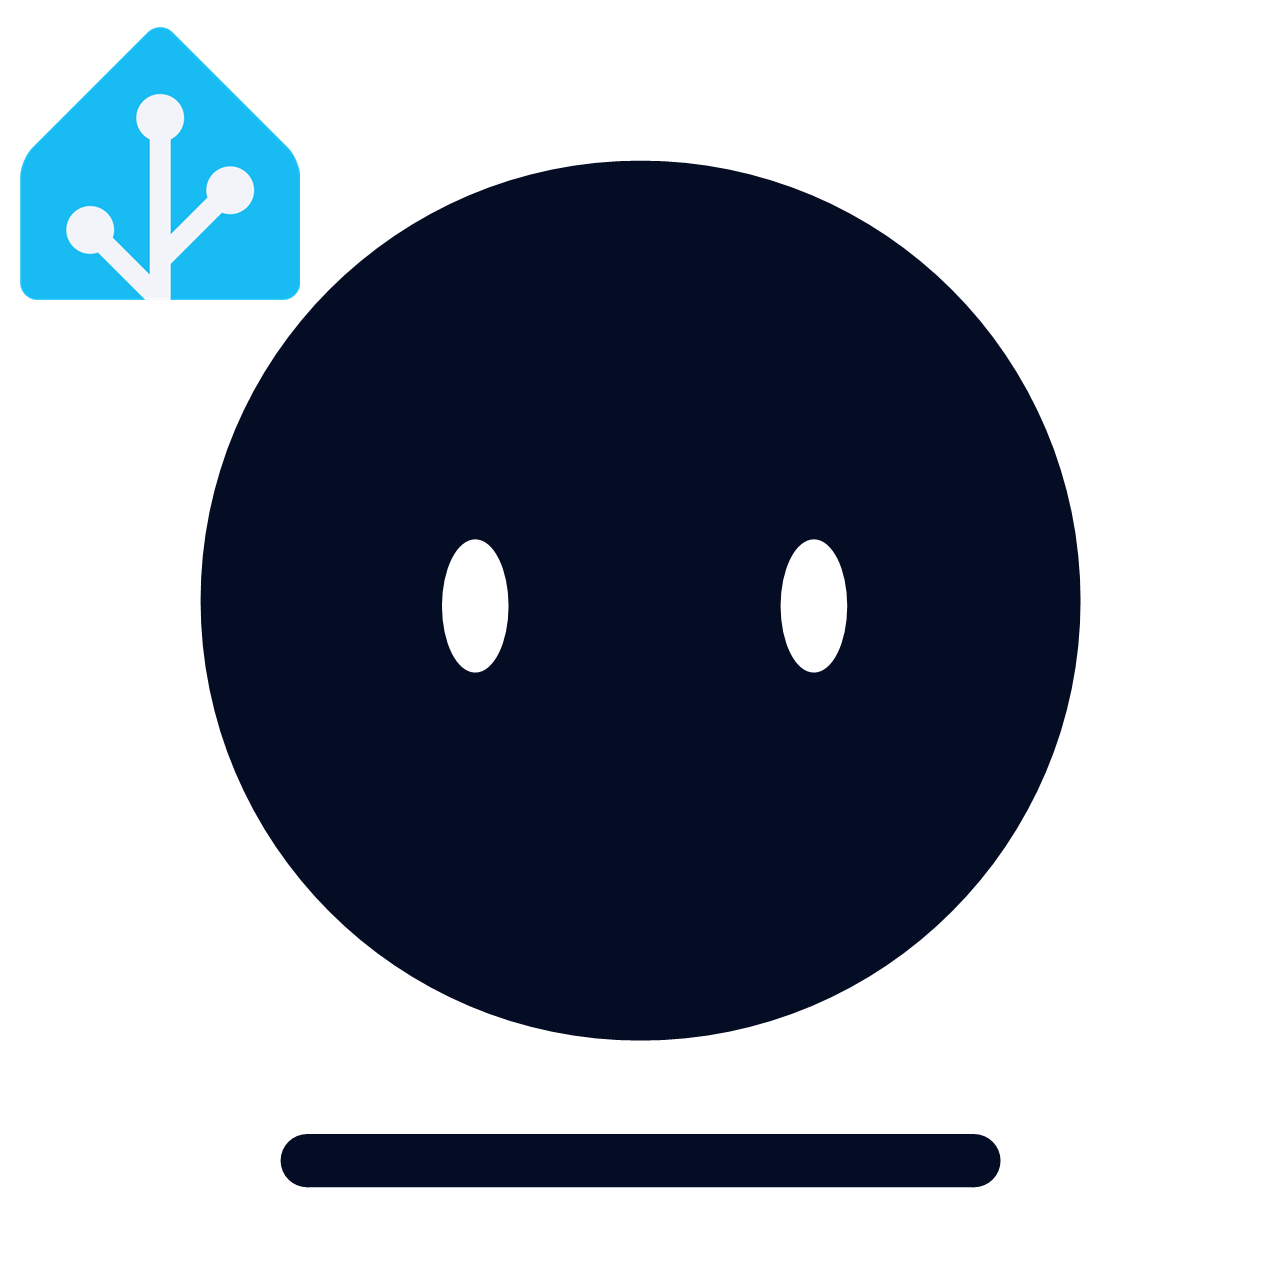
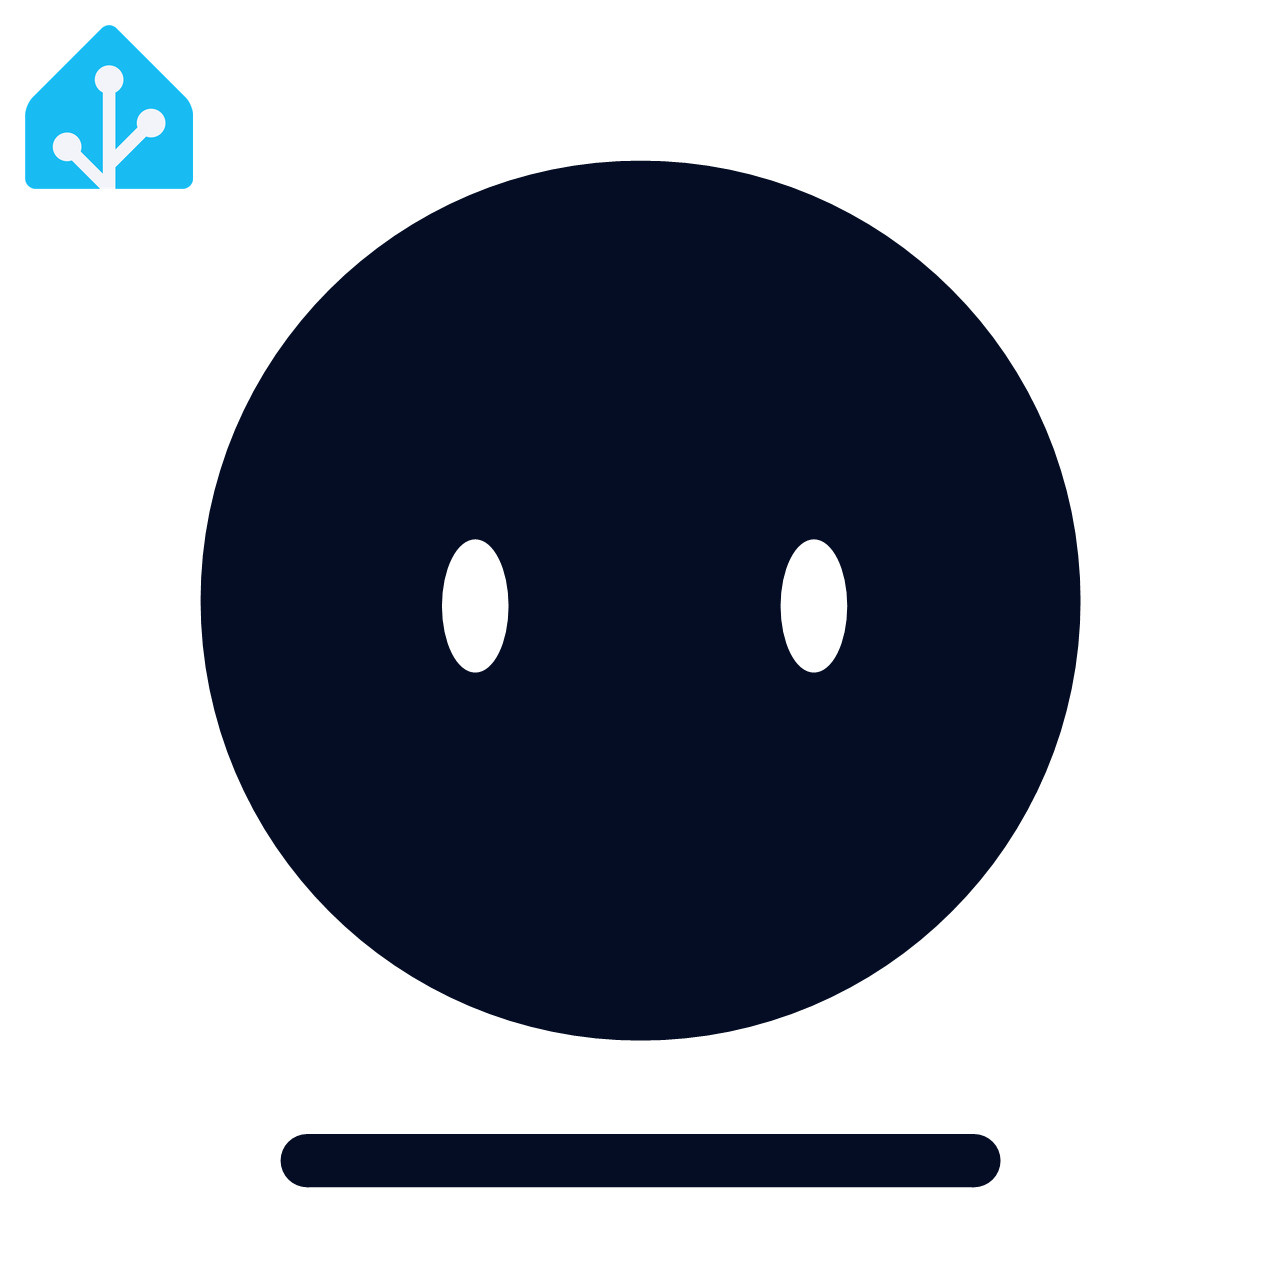
Name NIO OAuth credentials and refine badge (0.4.0-dev.2)

Changed region(s): [[0.0, 0.0, 0.25, 0.25]]

diff --git a/tests/test_application_credentials.py b/tests/test_application_credentials.py
@@ -5,6 +5,7 @@ from unittest.mock import AsyncMock, MagicMock, patch
 
 import pytest
 from aiohttp import BasicAuth
+from homeassistant.components.application_credentials import ClientCredential
 from homeassistant.core import HomeAssistant
 from homeassistant.helpers.config_entry_oauth2_flow import (
     OAuth2TokenRequestError,
@@ -14,6 +15,7 @@ from homeassistant.helpers.config_entry_oauth2_flow import (
 
 from custom_components.nio_telematics.application_credentials import (
     NioOAuth2Implementation,
+    async_get_auth_implementation,
 )
 from custom_components.nio_telematics.const import DOMAIN
 
@@ -36,6 +38,21 @@ def test_authorize_request_uses_nios_default_scope_set() -> None:
 def test_credentials_help_uses_home_assistant_oauth_redirect() -> None:
     """The credentials help exposes Home Assistant's exact OAuth callback."""
     assert '"redirect_url": "https://my.home-assistant.io/redirect/oauth"' in SOURCE
+
+
+async def test_credential_picker_shows_saved_name(hass: HomeAssistant) -> None:
+    """The implementation picker distinguishes multiple saved NIO clients."""
+    named = await async_get_auth_implementation(
+        hass, "nio-named", ClientCredential("client-one", "secret", "Home Assistant")
+    )
+    unnamed = await async_get_auth_implementation(
+        hass, "nio-unnamed", ClientCredential("client-two", "secret")
+    )
+
+    assert named.name == "Home Assistant"
+    assert unnamed.name == "client-two"
+    assert named.domain == "nio-named"
+    assert unnamed.domain == "nio-unnamed"
 
 
 def implementation(hass: HomeAssistant) -> NioOAuth2Implementation:

diff --git a/custom_components/nio_telematics/application_credentials.py b/custom_components/nio_telematics/application_credentials.py
@@ -31,6 +31,14 @@ from .oauth import (
 class NioOAuth2Implementation(LocalOAuth2ImplementationWithPkce):
     """Handle NIO's PKCE, Basic authentication, and wrapped token envelope."""
 
+    _credential_name: str | None = None
+
+    @property
+    @override
+    def name(self) -> str:
+        """Show the owner's saved application-credential label in HA flows."""
+        return self._credential_name or self.client_id
+
     def _safe_token_error(
         self,
         error_type: type[OAuth2TokenRequestError],
@@ -134,7 +142,7 @@ async def async_get_auth_implementation(
     credential: ClientCredential,
 ) -> AbstractOAuth2Implementation:
     """Return NIO's custom OAuth implementation."""
-    return NioOAuth2Implementation(
+    implementation = NioOAuth2Implementation(
         hass,
         auth_domain,
         credential.client_id,
@@ -143,6 +151,8 @@ async def async_get_auth_implementation(
         client_secret=credential.client_secret,
         code_verifier_length=128,
     )
+    implementation._credential_name = credential.name
+    return implementation
 
 
 async def async_get_description_placeholders(

diff --git a/README.md b/README.md
@@ -34,7 +34,7 @@ Settings now has short help beside optional inputs and a **Backup & restore** se
 [![Open this repository in HACS](https://my.home-assistant.io/badges/hacs_repository.svg)](https://my.home-assistant.io/redirect/hacs_repository/?owner=nicolasvangeluwe&repository=nio-home-assistant&category=integration)
 
 1. Add this repository to HACS as an **Integration** ([how to add a custom repository](https://www.hacs.xyz/docs/faq/custom_repositories/)), download the latest development release, then restart Home Assistant.
-2. Create a **Personal Application** in the [NIO developer console](https://open-eu.nio.com/console) with OAuth Authorization Code. Set its redirect URI to `https://my.home-assistant.io/redirect/oauth`.
+2. Create a **Personal Application** in the [NIO developer console](https://open-eu.nio.com/console) with OAuth Authorization Code. Set its only redirect URI to `https://my.home-assistant.io/redirect/oauth`. Although NIO's guide describes comma-separated callbacks, its live authorization service currently rejects an individual callback from such a list; use a separate NIO application for another client.
 3. In **Settings → Devices & services**, add **Open Telematics for NIO (EU)**. Enter the application's Client ID and Secret, authorize with NIO, then enter your car's name and VIN.
 
 You can enable additional sensors on the vehicle's **Entities** page. Existing Home Assistant enable/disable choices survive updates. For manual installation, copy `custom_components/nio_telematics` into your Home Assistant configuration and restart.

diff --git a/CHANGELOG.md b/CHANGELOG.md
@@ -3,6 +3,21 @@
 The changelog is the authoritative release history for this integration.
 Use this before releases and when opening PRs.
 
+## 0.4.0-dev.2
+
+- Show each saved Home Assistant application credential's own name in the
+  reauthentication/reconfiguration picker, with its client ID as a fallback
+  when no name was saved. The selected implementation and OAuth behavior are
+  unchanged.
+- Reduce and separate the upper-left Home Assistant badge on the locally
+  bundled integration icon. The approved face and underline are unchanged.
+- NIO's live authorization service rejected individually requested callback
+  URLs when two callbacks were stored comma-separated, despite its published
+  setup guidance. For now, use a dedicated NIO Personal Application with only
+  `https://my.home-assistant.io/redirect/oauth` as its redirect URI. The
+  existing HA vehicle entry can be reconfigured to its new credentials; its
+  entity IDs, dashboard preferences, and stored trip/charging history remain.
+
 ## 0.4.0-dev.1
 
 - Add Home Assistant's application-credential picker to reauthentication and
